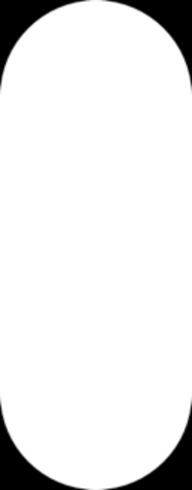
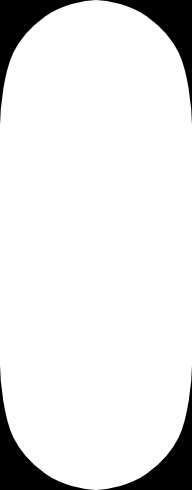
New sb7 mask

diff --git a/README.md b/README.md
@@ -13,3 +13,7 @@ less compatible.
 2. Enable that environment
 3. Install dependencies via `pip install -r requirements.txt`
 4. Run `python make_release.py`
+
+## Contributors
+- MelianMiko: Main developer
+- [Игорь Худяков](https://4pda.to/forum/index.php?showuser=5434953): Better SmartBnad7 overlay mask
